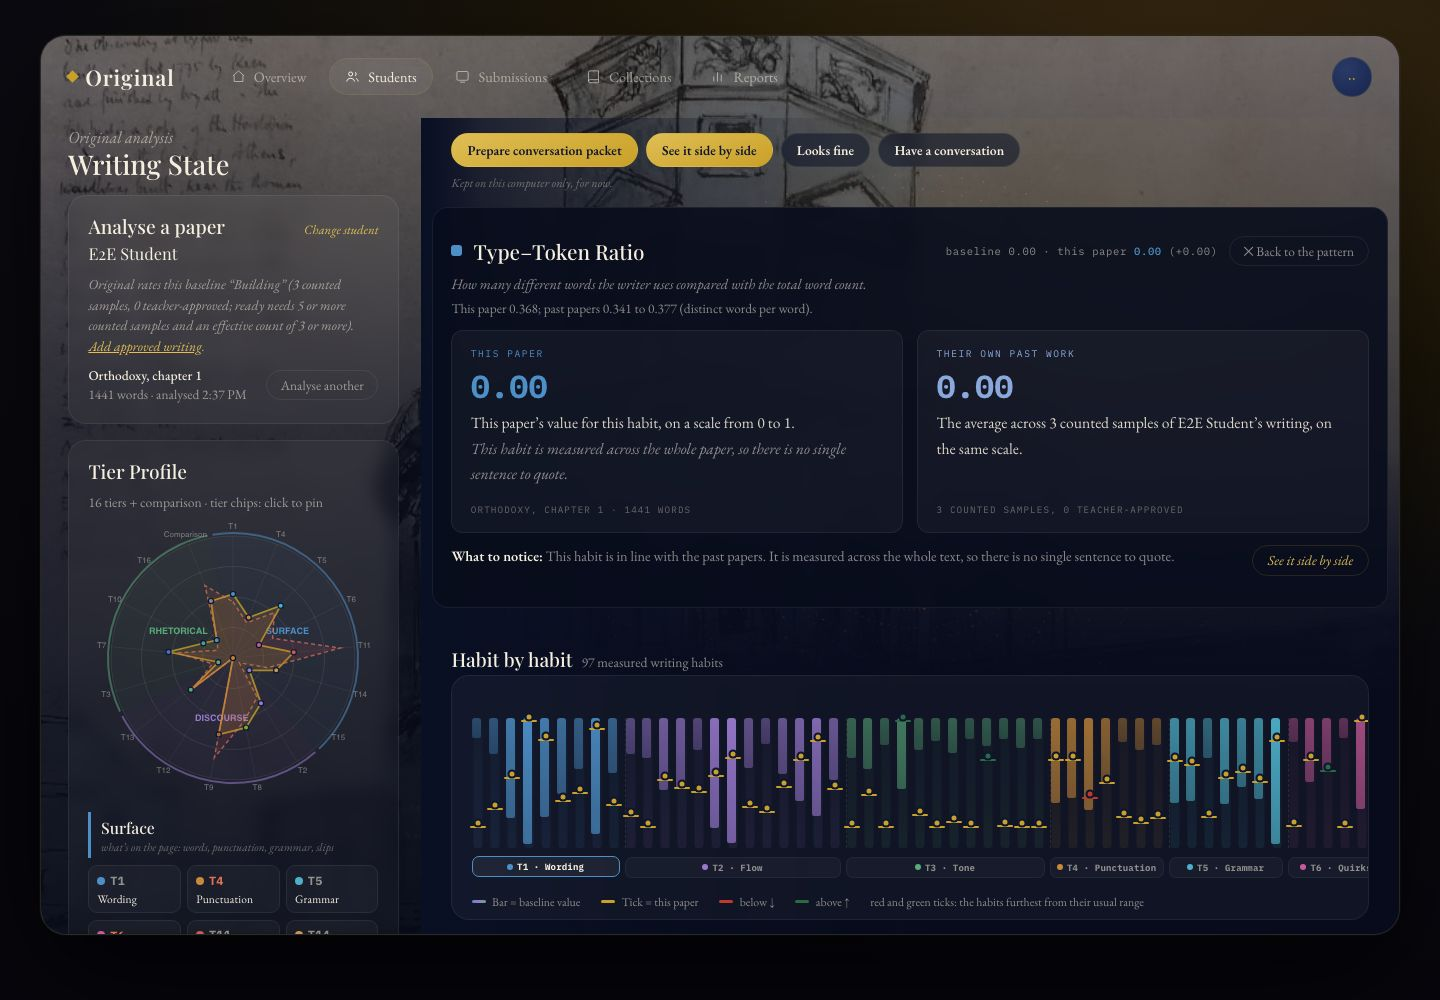
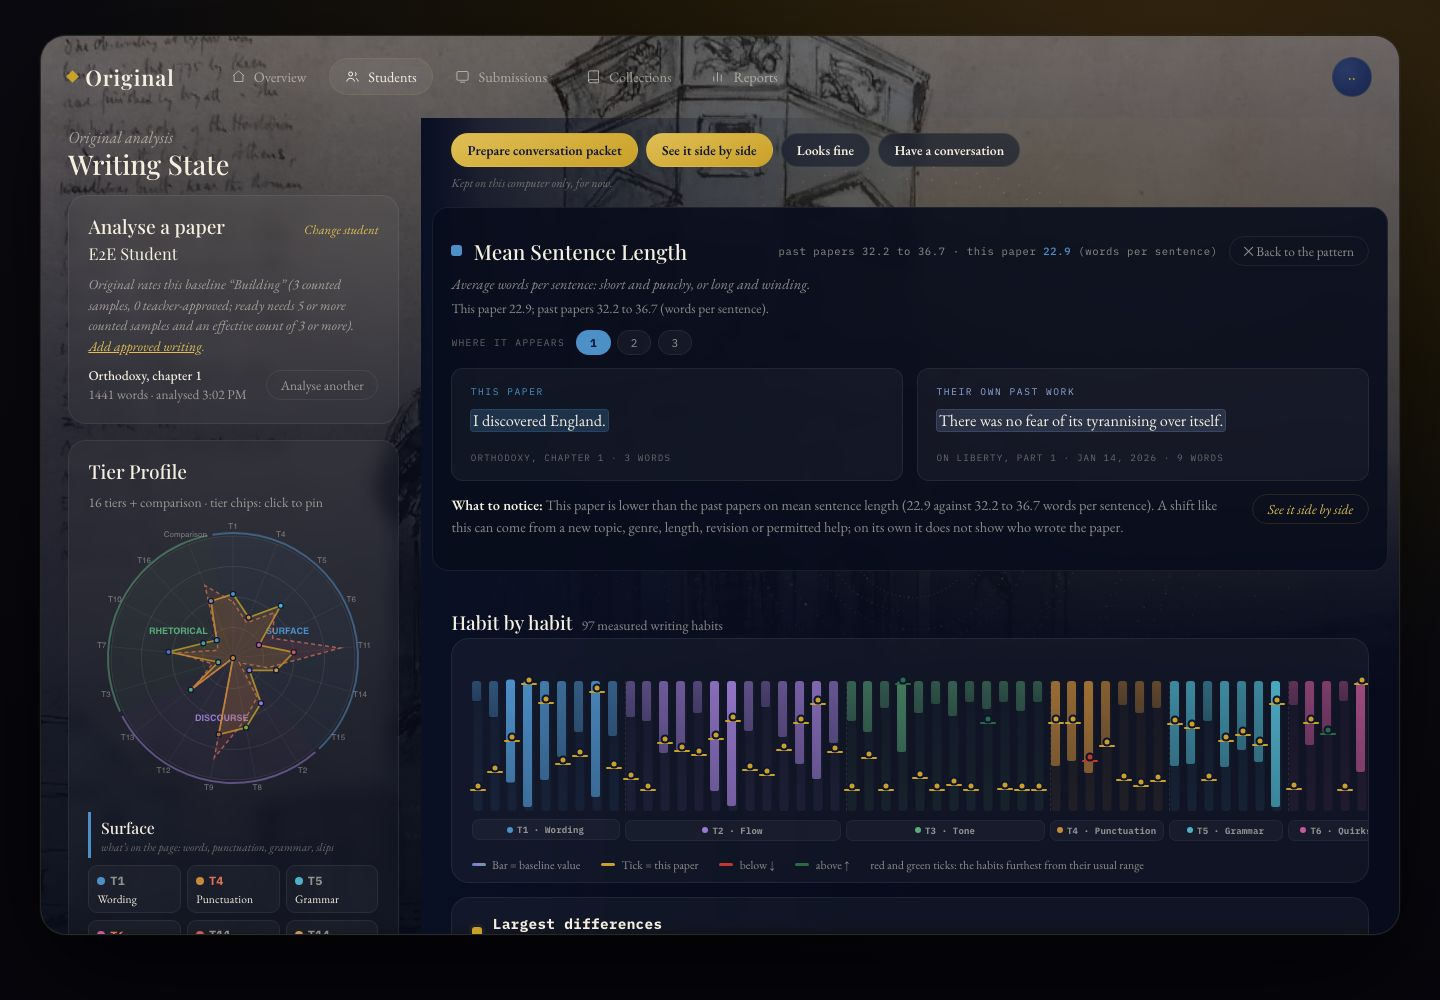
Fix the parity screenshots so the after set shows passages
The habit-open shot now opens the first habit whose panel marks words on
both sides (and fails if none does), the side-by-side shot is scrolled to
the first quote card, and the packet's Side by side shot fails instead of
being skipped when the section is missing. The after set is re-shot on a
pilot server with both evidence flags on, and the audit's notes now say
what each new shot shows, plus the fix-wave rows (Open Collections, drag
select, deferred minors).

diff --git a/docs/audits/demo-parity.md b/docs/audits/demo-parity.md
@@ -144,11 +144,20 @@ Image pairs:
 | Packet, Side by side section (new) | none | [after/06b-packet-side-by-side.jpg](demo-parity/after/06b-packet-side-by-side.jpg) |
 | Voice baseline | [before/07-voice-baseline.jpg](demo-parity/before/07-voice-baseline.jpg) | [after/07-voice-baseline.jpg](demo-parity/after/07-voice-baseline.jpg) |
 
-The habit-open shot opens the first heatmap bar, which the engine may rank as a
-whole-text habit (no single sentence to quote). For such a habit the panel now says so in
-plain words; the located-passage case (highlighted quotes beside past work, "Where it
-appears" tabs) is in `after/06b-packet-side-by-side.jpg`, `after/05-side-by-side.jpg` and
-the `@evidence-on` e2e specs.
+The after set was re-shot in the final fix wave. What each new shot shows:
+
+- `after/04-writing-state-habit-open.jpg`: the script opens heatmap bars in order and stops
+  at the first whose panel marks words on both sides (it fails if none does). Here that is
+  Mean Sentence Length: this paper's marked sentence beside a marked sentence from "On
+  Liberty, part 1" (dated 14 Jan 2026), "Where it appears" tabs 1 to 3, the header numbers
+  in the same words-per-sentence units as the line under it, the "What to notice" line, and
+  the in-panel "See it side by side" link.
+- `after/05-side-by-side.jpg`: scrolled to the first quote card under "Biggest differences"
+  (Comma Rate): marked commas in this paper beside marked commas in two dated past papers,
+  each with its source line.
+- `after/06b-packet-side-by-side.jpg`: the packet's Side by side section with the Comma Rate
+  and First-Person Ratio cards, marked words on both sides, each card's "What to notice" and
+  numbers lines, and the note naming the top habits left out for lack of quotable text.
 
 ### 1. Writing State (status after)
 
@@ -171,7 +180,7 @@ the `@evidence-on` e2e specs.
 | "What to notice" line | `works` | From `EvidenceView.noticeFor`, built from real numbers only, no invented reasons. |
 | In-panel link to Side by side | `works` | Added. |
 | Voice baseline link, Change student, Analyse another | `works` | Unchanged. |
-| Avatar menu, nav pills | `works` | Unchanged. Collections pill still opens the Collections sessions page. |
+| Avatar menu, nav pills | `works` | The avatar menu on every staff page now starts with "Open Collections" (`/bluebook/#dashboard`), since bare `/bluebook/` sends a teacher to Original. Collections pill still opens the Collections sessions page. |
 
 ### 2. Packet (status after)
 
@@ -194,7 +203,7 @@ the `@evidence-on` e2e specs.
 | Sensitivity options | `unchanged by design` | No engine controls on a real page. |
 | Notifications menu item | `unchanged by design` | The demo's is a dead end; none added. |
 | Row hover | `works` | Gold edge and tint present. |
-| Dragging to select row text | `not done` | Selecting text on a row still triggers navigation (minor, deferred in review: needs a `getSelection` guard). |
+| Dragging to select row text | `works` | A row click with text selected no longer navigates (`getSelection` guard, final fix wave). |
 
 ### 4. Students (status after)
 
@@ -220,7 +229,7 @@ the `@evidence-on` e2e specs.
 | Submissions (`submissions.html`) | `unchanged by design` | No stored analyses, so no severity chips. |
 | Reports (`reports.html`) | `unchanged by design` | Week columns unchanged: there is no week filter on Submissions to send them to. |
 | Voice (`voice.html`) | `unchanged by design` | Student-facing, shows no scores (constraint 3). |
-| Collections pill (`bluebook.html`) | `unchanged by design` | Still the Collections sessions page; the Collections app links are what changed. |
+| Collections pill (`bluebook.html`) | `works` | Still the Collections sessions page; its head now carries an "Open Collections" link to the Collections dashboard (`/bluebook/#dashboard`). |
 
 ### Landing (Task 6, not a table row above)
 
@@ -232,10 +241,10 @@ opens Collections. The admin and operator sign-ins mirror the main sign-in (ruli
 
 ### Still open
 
-- Overview row drag-select navigates (above).
-- Minor review items deferred by the ledger: `habitName` lower-cases proper nouns,
-  `isTiny` is duplicated in three pages, the not-compared tail on Writing State is
-  hard-coded, `.r-ws` has no `title`.
+- Minor review item deferred by the ledger: `.r-ws` has no `title`. (The drag-select
+  guard, `habitName` keeping acronyms and proper nouns, one shared quote rule in
+  `EvidenceView`, and the not-compared line built from `EvidenceView` were fixed in the
+  final fix wave.)
 - Not validated against real student submissions: the sentences quoted are real engine
   output on public-domain test papers only.
 
